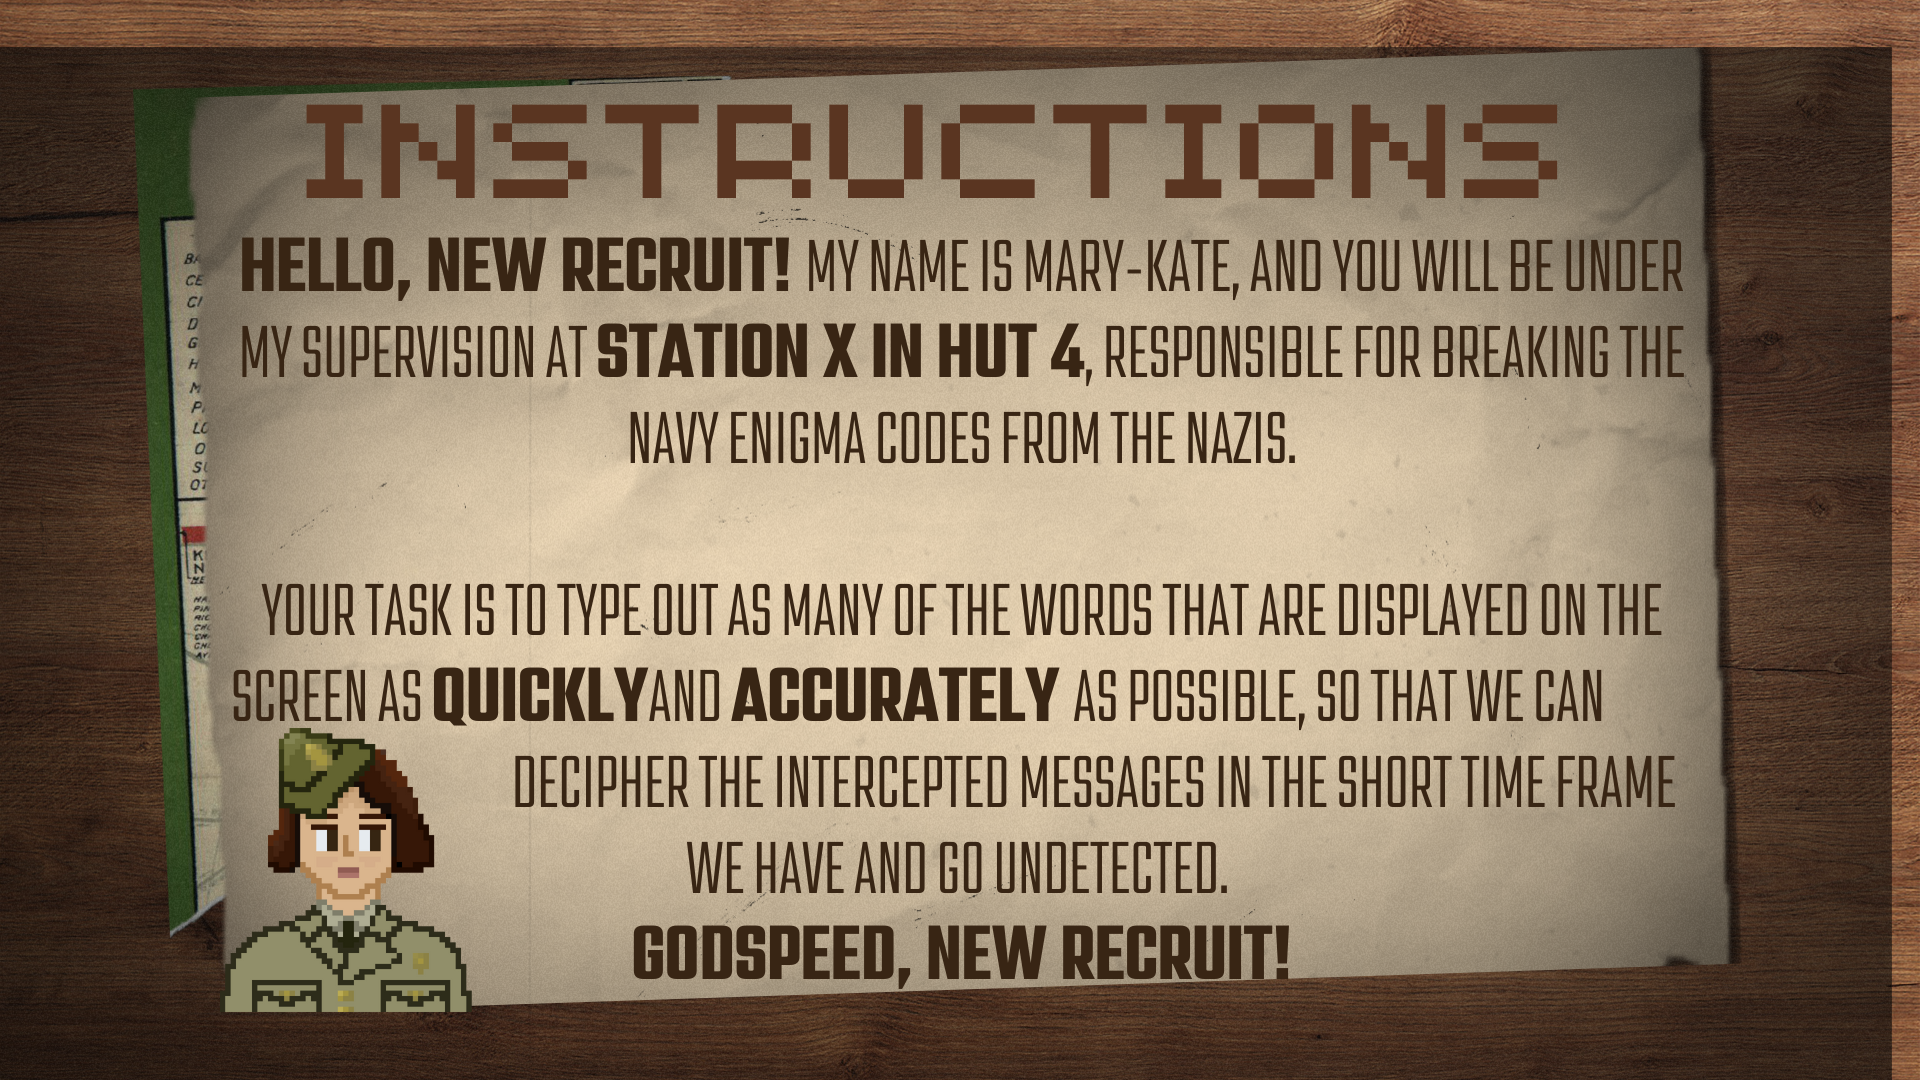
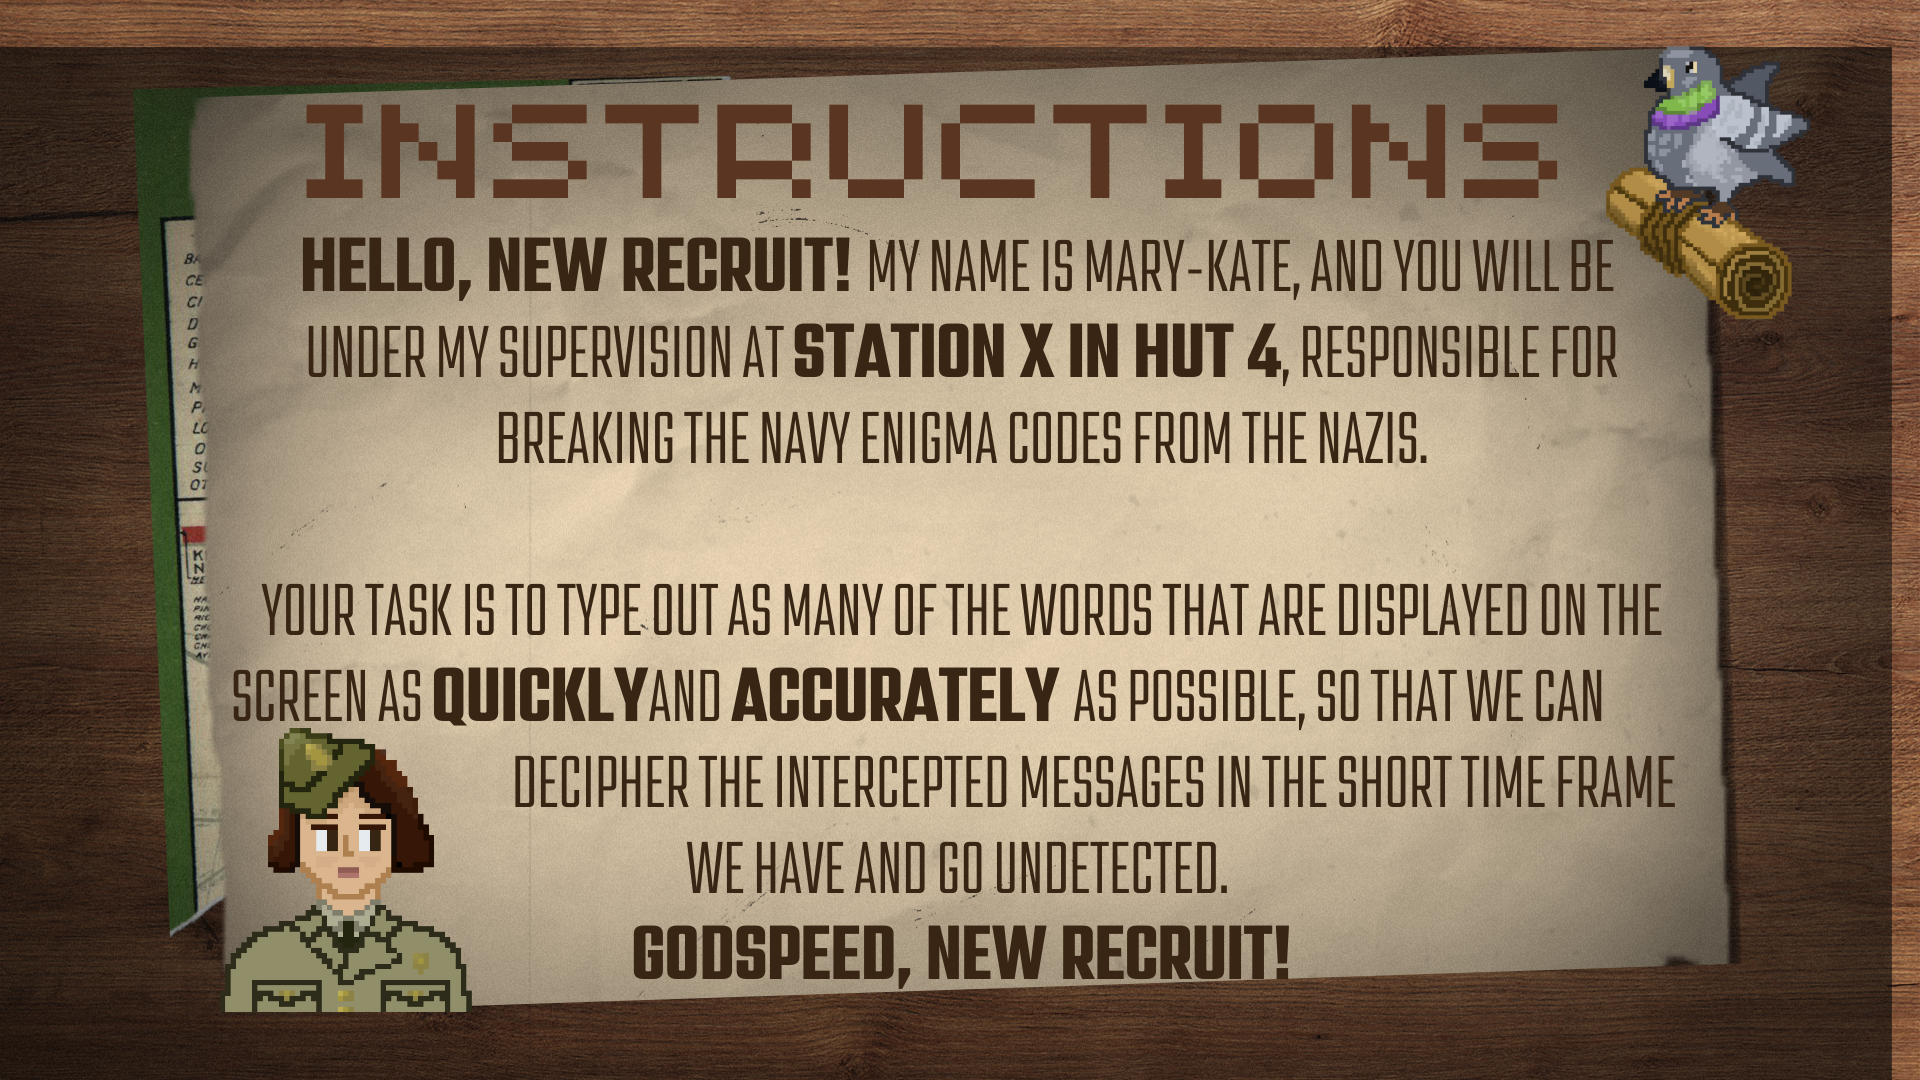
added the logook and functionality to get there

Changed region(s): [[0.125, 0.0306, 0.9375, 0.4278]]

diff --git a/typing_game.py b/typing_game.py
@@ -5,7 +5,6 @@ import cv2
 from game_process import run_game
 
 
-# ---------- shared UI helpers ----------
 def draw_back_button(screen, WIDTH):
     # top-left back button
     back_rect = pygame.Rect(20, 20, 120, 45)
@@ -85,6 +84,7 @@ def instructions_screen(screen, clock, WIDTH, HEIGHT):
     instructions_img = pygame.transform.scale(instructions_img, (WIDTH, HEIGHT))
 
     font = pygame.font.SysFont("arial", 38, bold=True)
+    hint_font = pygame.font.SysFont("arial", 28, bold=True)
 
     continue_button_width = 220
     continue_button_height = 60
@@ -93,11 +93,18 @@ def instructions_screen(screen, clock, WIDTH, HEIGHT):
     continue_button_rect = pygame.Rect(
         continue_button_x, continue_button_y, continue_button_width, continue_button_height
     )
+    # top-right corner hitbox to lead to logbook
+    top_right_rect = pygame.Rect(WIDTH - 250, 20, 200, 200)
 
     while True:
         clock.tick(60)
-
         screen.blit(instructions_img, (0, 0))
+
+    #gives indication that what the user is hovering over is for the logbook
+        mx, my = pygame.mouse.get_pos()
+        if top_right_rect.collidepoint((mx, my)):
+            logbook_hint = hint_font.render("Logbook", True, (255, 255, 255))
+            screen.blit(logbook_hint, (WIDTH - 100, 100))
 
         # back button (top-left)
         back_rect = draw_back_button(screen, WIDTH)
@@ -116,17 +123,41 @@ def instructions_screen(screen, clock, WIDTH, HEIGHT):
             if event.type == pygame.MOUSEBUTTONDOWN:
                 if back_rect.collidepoint(event.pos):
                     return "back"
+                if top_right_rect.collidepoint(event.pos):
+                    return "logbook"
                 if continue_button_rect.collidepoint(event.pos):
                     return "next"
 
-
+def logbook_screen(screen, clock, WIDTH, HEIGHT):
+    logbook_img = pygame.image.load("media/logbook.png").convert()  
+    logbook_img = pygame.transform.scale(logbook_img, (WIDTH, HEIGHT))
+    
+    while True:
+        clock.tick(60)
+        screen.blit(logbook_img, (0, 0))
+        
+        # back button
+        back_rect = draw_back_button(screen, WIDTH)
+        
+        pygame.display.flip()
+        
+        for event in pygame.event.get():
+            if event.type == pygame.QUIT:
+                return "quit"
+            if event.type == pygame.MOUSEBUTTONDOWN:
+                if back_rect.collidepoint(event.pos):
+                    return "back"
+                
 def level_select(screen, clock, WIDTH, HEIGHT):
     levels_img = pygame.image.load("media/levels.png").convert()
     levels_img = pygame.transform.scale(levels_img, (WIDTH, HEIGHT))
 
-    # clickable hitboxes (adjust if circles don’t match your art)
+    # top-right corner hitbox to lead to logbook
+    top_right_rect = pygame.Rect(WIDTH - 250, 20, 200, 200)
+
+    # clickable hitboxes 
     y_circle = int(HEIGHT * 0.36)
-    radius = int(min(WIDTH, HEIGHT) * 0.25)
+    radius = int(min(WIDTH, HEIGHT) * 0.15)
 
     easy_center = (int(WIDTH * 0.20), y_circle)
     medium_center = (int(WIDTH * 0.50), y_circle)
@@ -142,11 +173,10 @@ def level_select(screen, clock, WIDTH, HEIGHT):
     while True:
         clock.tick(60)
         screen.blit(levels_img, (0, 0))
-
         # back button
         back_rect = draw_back_button(screen, WIDTH)
 
-        # optional hover hint
+        # hover hint
         mx, my = pygame.mouse.get_pos()
         hint = None
         if clicked_circle((mx, my), easy_center, radius):
@@ -159,6 +189,10 @@ def level_select(screen, clock, WIDTH, HEIGHT):
         if hint:
             tip = hint_font.render(f"Click: {hint}", True, (255, 255, 255))
             screen.blit(tip, (160, 28))
+        
+        if top_right_rect.collidepoint((mx, my)):
+                logbook_hint = hint_font.render("Logbook", True, (255, 255, 255))
+                screen.blit(logbook_hint, (WIDTH - 100, 100))
 
         pygame.display.flip()
 
@@ -169,6 +203,8 @@ def level_select(screen, clock, WIDTH, HEIGHT):
                 if back_rect.collidepoint(event.pos):
                     return "back"
                 pos = event.pos
+                if top_right_rect.collidepoint(event.pos):
+                    return "logbook"
                 if clicked_circle(pos, easy_center, radius):
                     return "easy"
                 if clicked_circle(pos, medium_center, radius):
@@ -177,7 +213,7 @@ def level_select(screen, clock, WIDTH, HEIGHT):
                     return "hard"
 
 
-# ---------- main flow ----------
+# ---------- main game ----------
 def main():
     pygame.init()
     pygame.mixer.init()
@@ -210,7 +246,7 @@ def main():
         if choice == "quit":
             break
 
-        # play your second video (you called it outro, but keeping your naming)
+        # play your second video 
         end_frame = play_video(screen, clock, outro_vid, WIDTH, HEIGHT)
         if end_frame is None:
             break
@@ -219,6 +255,9 @@ def main():
         ins = instructions_screen(screen, clock, WIDTH, HEIGHT)
         if ins == "quit":
             break
+        if ins == "logbook":
+            logbook_screen(screen, clock, WIDTH, HEIGHT)
+            continue
         if ins == "back":
             continue  # go back to BEGIN screen
 
@@ -238,8 +277,12 @@ def main():
                     # back to begin screen
                     break  # break out to BEGIN
                 # if next, go back to level select again
+                continue       
+            
+            if diff == "logbook": 
+                logbook_screen(screen, clock, WIDTH, HEIGHT)
                 continue
-
+                
             # gameplay
             result = run_game(diff)  # returns "back" or "quit"
             if result == "quit":

diff --git a/game_process.py b/game_process.py
@@ -266,7 +266,7 @@ def run_game(difficulty="easy"):
                 paused = False
             if back_butt:
                 check_high_score(score, difficulty)
-                return "back"  # ✅ go back to level select
+                return "back" 
 
         if new_level and not paused:
             word_objects = generate_level(words_src, speed_range, score)
